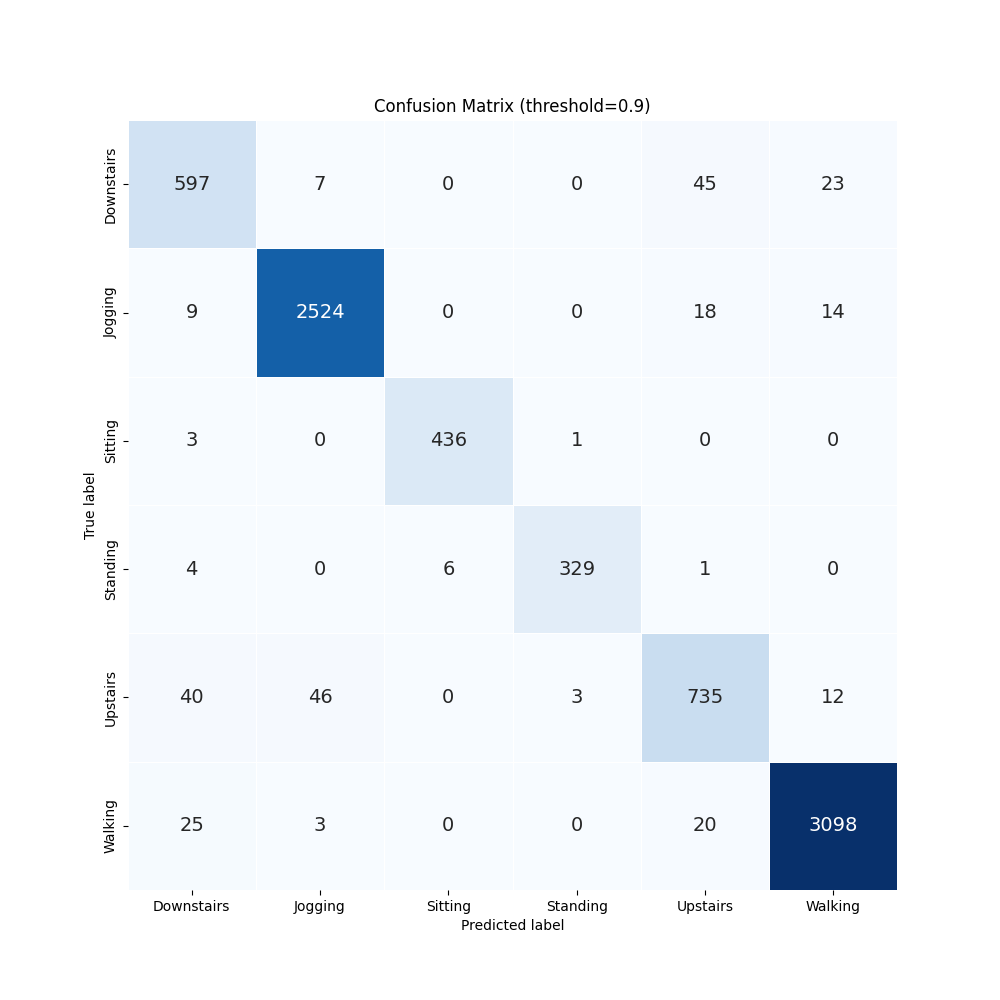
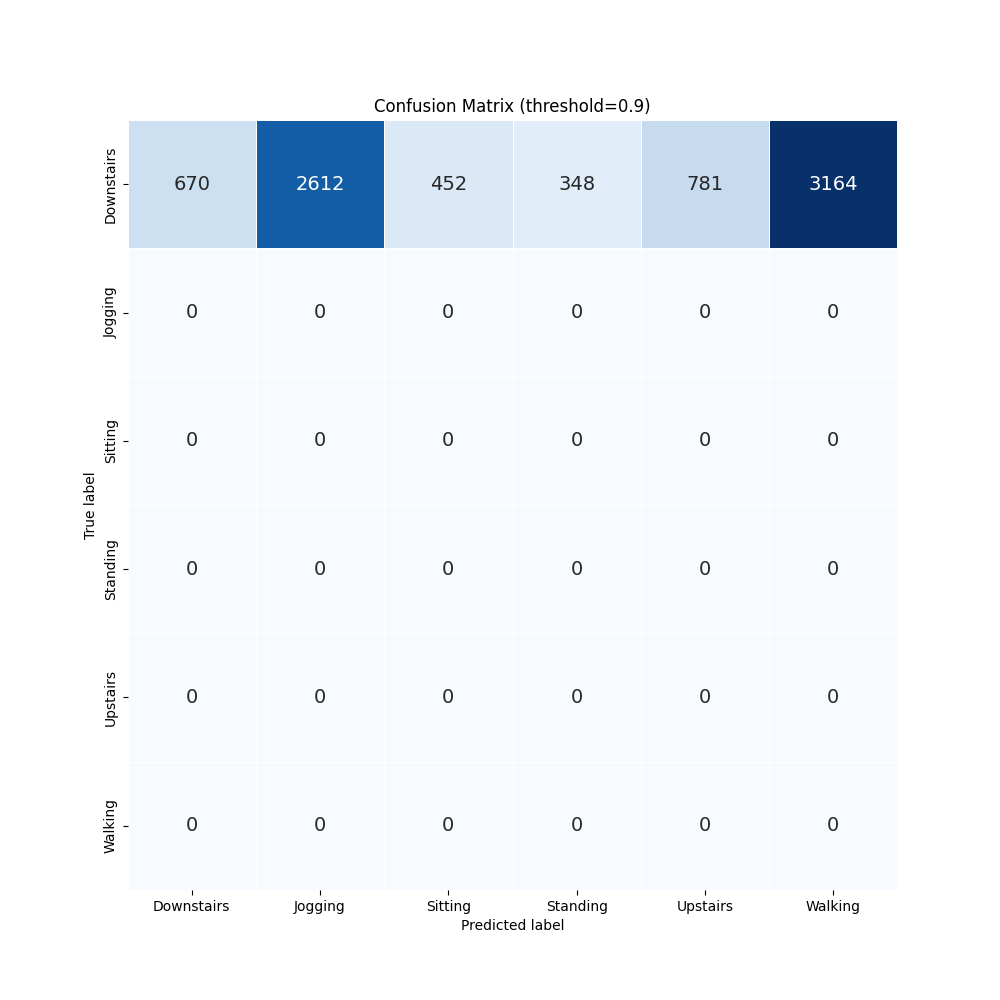
add 1dcnn

diff --git a/result/error_bar/cnn1d/error_bar.py b/result/error_bar/cnn1d/error_bar.py
@@ -1,21 +1,14 @@
-import copy
 import datetime
-import os
 
-import numpy as np
 import pandas as pd
 import torch
-from torch import nn, optim
-from torch.utils.data import DataLoader
 
 from keras.layers import Conv1D, Dense, Dropout, GlobalMaxPooling1D
 from lib.preprocess import load_data
-from lib.local_utils import is_worse, SeqDataset
 
 import datetime
 import os
 
-import joblib
 import numpy as np  # linear algebra
 import pandas as pd  # data processing, CSV file I/O (e.g. pd.read_csv)
 
@@ -24,18 +17,10 @@ import datetime
 import os
 
 import joblib
-import keras
 import numpy as np  # linear algebra
 import pandas as pd  # data processing, CSV file I/O (e.g. pd.read_csv)
-import seaborn as sns
 from keras.layers import Conv1D, Dense, Dropout, GlobalMaxPooling1D
-from keras.models import Model, Sequential
-from keras.utils.np_utils import to_categorical
-from matplotlib import pyplot as plt
-from scipy import stats
-from sklearn.metrics import accuracy_score, classification_report, confusion_matrix
-from sklearn.model_selection import train_test_split
-from sklearn.preprocessing import LabelEncoder
+from keras.models import Sequential
 
 from lib.preprocess import load_data
 
@@ -85,8 +70,8 @@ model.add(Conv1D(64, 6, activation="relu"))
 model.add(GlobalMaxPooling1D())
 model.add(Dropout(0.5))
 # activation function is identity
-model.add(Dense(6, activation="identity"))
-# model.add(Dense(6, activation="softmax"))
+# model.add(Dense(6, activation="linear"))
+model.add(Dense(6, activation="softmax"))
 
 print(model.summary())
 

diff --git a/error_bar.py b/error_bar.py
@@ -84,8 +84,6 @@ model.add(Conv1D(96, 8, activation="relu"))
 model.add(Conv1D(64, 6, activation="relu"))
 model.add(GlobalMaxPooling1D())
 model.add(Dropout(0.5))
-# activation function is identity
-# model.add(Dense(6, activation="linear"))
 model.add(Dense(6, activation="softmax"))
 
 print(model.summary())
@@ -106,9 +104,7 @@ history = model.fit(
 
 y_pred = model.predict(x_test)
 y_test = y_test.argmax(axis=-1)
-
 y_pred = pd.DataFrame(y_pred)
-y_test = y_test.argmax(axis=-1)
 y_pred["true"] = y_test
 
 y_pred.to_csv(f"{dirname}/predict.csv")
